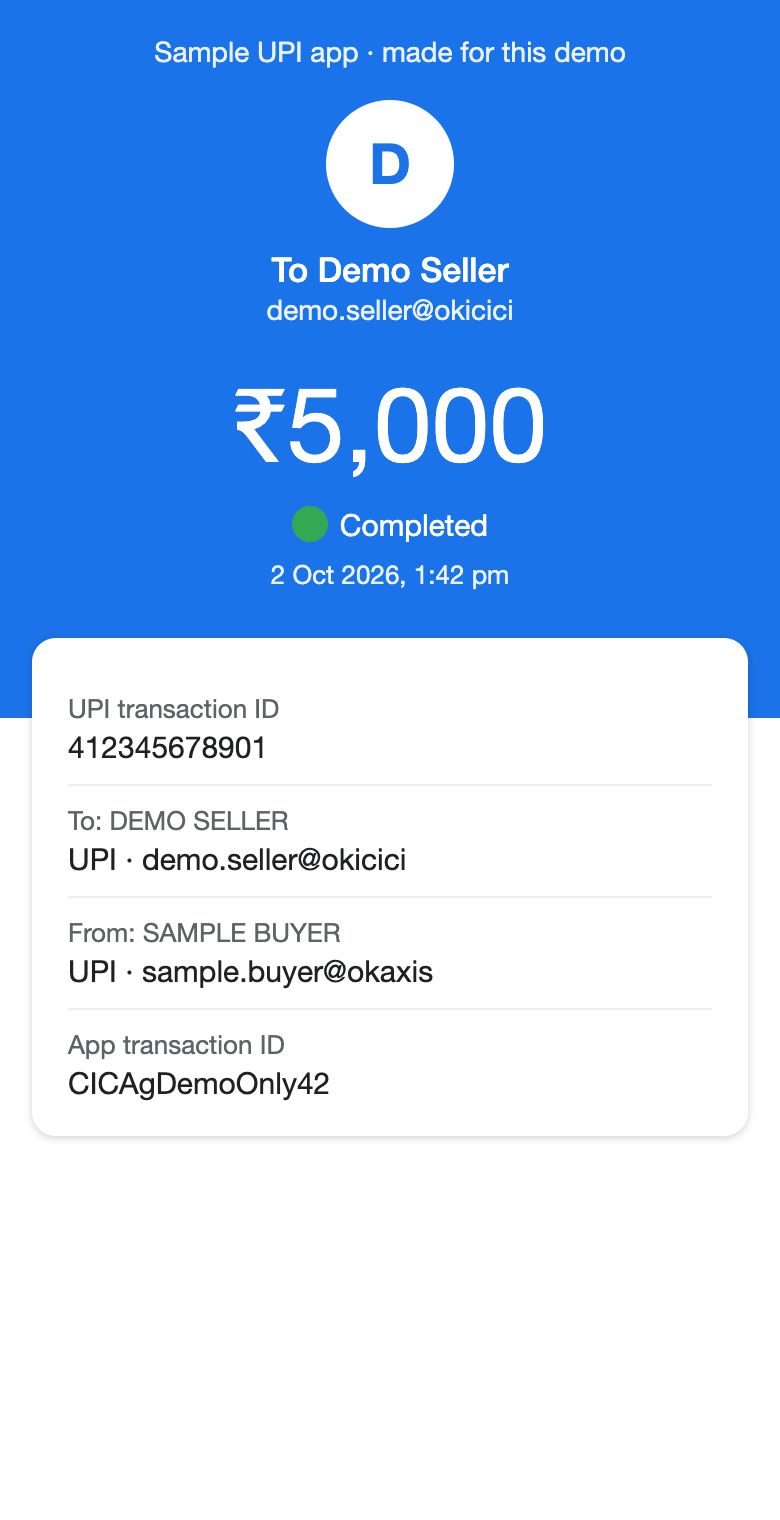
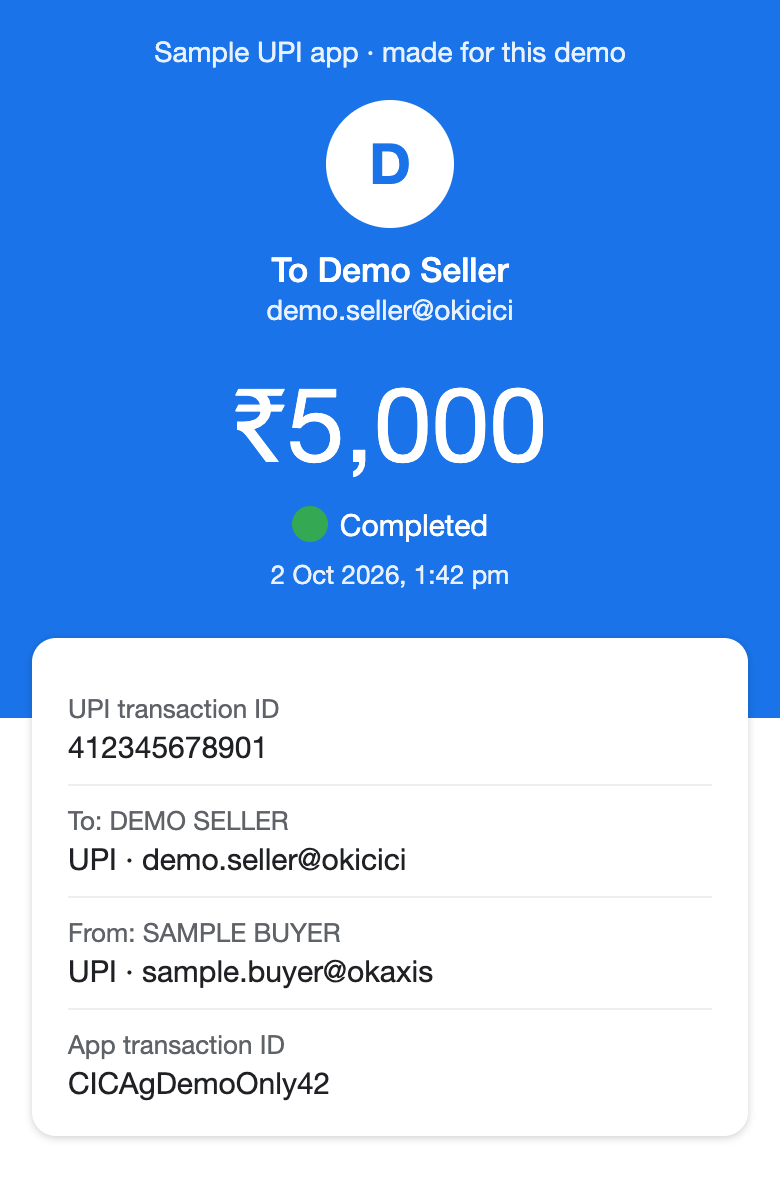
fix(web): upi shots side by side, labels beside boxes

diff --git a/web/src/styles.css b/web/src/styles.css
@@ -921,8 +921,8 @@ label.over textarea {
 
 .upi-shots {
   display: grid;
-  grid-template-columns: repeat(auto-fit, minmax(14rem, 1fr));
-  gap: 1.25rem;
+  grid-template-columns: repeat(2, minmax(0, 1fr));
+  gap: 0.9rem;
 }
 
 .upi-shot {
@@ -936,9 +936,19 @@ label.over textarea {
   font-weight: 600;
 }
 
+.upi-shot .facts {
+  grid-template-columns: 1fr;
+  gap: 0 0;
+  font-size: 0.82rem;
+}
+
+.upi-shot .facts dd {
+  margin-bottom: 0.3rem;
+}
+
 .upi-frame {
   position: relative;
-  max-width: 17rem;
+  max-width: 15rem;
   border: 1px solid var(--rule);
   line-height: 0;
 }
@@ -961,8 +971,9 @@ label.over textarea {
 
 .upi-box b {
   position: absolute;
-  top: -1.15rem;
-  left: -2px;
+  top: 50%;
+  left: calc(100% + 4px);
+  transform: translateY(-50%);
   font-size: 0.65rem;
   font-weight: 700;
   padding: 0.1rem 0.3rem;
@@ -1024,5 +1035,108 @@ label.over textarea {
 @media (min-width: 56rem) {
   .upi-case {
     padding: 1.5rem;
+  }
+
+  .upi-shot .facts {
+    grid-template-columns: max-content 1fr;
+    gap: 0.3rem 0.9rem;
+    font-size: 0.9rem;
+  }
+
+  .upi-shot .facts dd {
+    margin-bottom: 0;
+  }
+}
+
+.scene {
+  margin: 0;
+  font-family: var(--serif);
+  font-size: 1.15rem;
+  line-height: 1.35;
+  max-width: 60ch;
+}
+
+.scene span {
+  display: block;
+  margin-top: 0.3rem;
+  font-family: var(--sans);
+  font-size: 0.85rem;
+  color: var(--ink-soft);
+}
+
+.tstep-release {
+  display: flex;
+  flex-wrap: wrap;
+  align-items: center;
+  gap: 0.4rem 0.75rem;
+}
+
+.tstep-release button {
+  min-height: 38px;
+  padding: 0.45rem 0.9rem;
+}
+
+.tstep-release button.pressed {
+  opacity: 1;
+  background: var(--good);
+  border-color: var(--good);
+  color: var(--accent-ink);
+  box-shadow: inset 0 2px 0 color-mix(in srgb, #000 25%, transparent);
+  transform: translateY(1px);
+}
+
+.tstep-release .released {
+  font-weight: 600;
+  color: var(--good);
+}
+
+.receipt {
+  margin-top: 0;
+}
+
+@media (max-width: 55.99rem) {
+  .theater {
+    padding: 1rem;
+    gap: 0.9rem;
+  }
+
+  .scene {
+    order: 0;
+    font-size: 1.05rem;
+  }
+
+  .theater-steps {
+    order: 1;
+  }
+
+  .theater-mail {
+    order: 2;
+    padding: 0.7rem 0.8rem;
+  }
+
+  .theater-foot {
+    order: 3;
+  }
+
+  .mail-body p:nth-child(n + 3) {
+    display: none;
+  }
+
+  .tstep {
+    padding: 0.6rem 0 0.6rem 2.1rem;
+  }
+
+  .tstep::before {
+    top: 0.6rem;
+  }
+
+  .tstamp {
+    font-size: 1.15rem;
+  }
+}
+
+@media (min-width: 56rem) {
+  .scene {
+    grid-column: 1 / -1;
   }
 }
